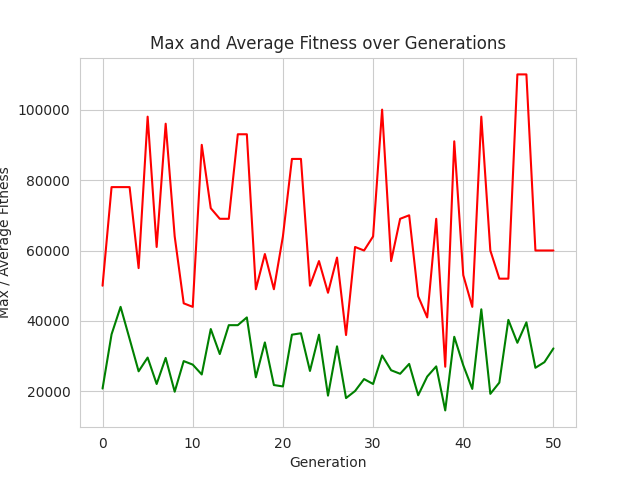
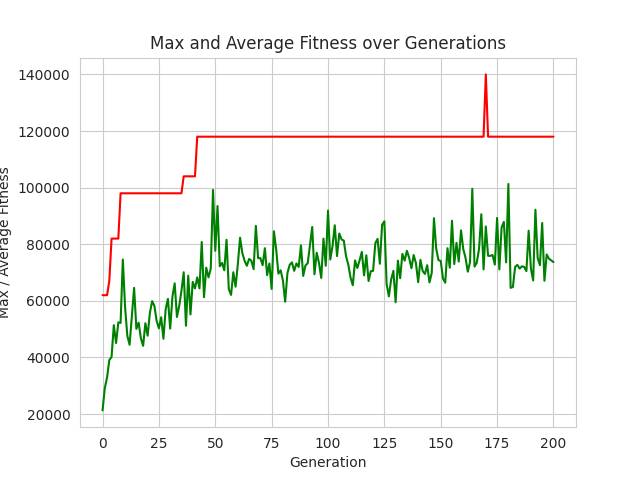
LuxAi-21, change alghotitms for evol, typo

diff --git a/evol/evol.py b/evol/evol.py
@@ -12,7 +12,6 @@ import statistics
 import time
 import json
 
-
 logger.remove()
 logger.add(open(
     'errorlogs/run_train.log', 'w'),
@@ -20,10 +19,9 @@ logger.add(open(
     format='{time:HH:mm:ss} | {level} | {message}'
     )
 
-
 # Constants
-# problem constants:
-gen_const = GenConstruct()
+# game constants:
+gen_const = GenConstruct() # get genom construction object
 GENOME_LINE_LENGHT = gen_const.prob_len  # length of genome line
 GENOME_LENGHT = 360*GENOME_LINE_LENGHT  # lenght of genome
 
@@ -38,18 +36,17 @@ CONFIGURATIONS = {
     'loglevel': 0,
     'annotations': False
     }
-NUM_EPISODES = 10  # number of games for mean reaward  calculating
+NUM_EPISODES = 10  # number of games for mean reaward calculating
 
-# sise of tournament
-TOURNAMENT_SIZE = 5
+# sise of tournament. For much robust tournament - choose small value
+TOURNAMENT_SIZE = 2
 
 # Genetic Algorithm constants:
 POPULATION_SIZE = 10
 P_CROSSOVER = 0.9  # probability for crossover
 P_MUTATION = 0.1  # probability for mutating an individual
-MAX_GENERATIONS = 50  # number of steps for evolution
+MAX_GENERATIONS = 200  # number of steps for evolution
 HALL_OF_FAME_SIZE = 5
-
 
 # Space initialisation
 toolbox = base.Toolbox()
@@ -82,7 +79,15 @@ toolbox.register(
 
 # Fitness calculation
 def GameScoreFitness(individual: List[int]) -> Tuple[float]:
+    """Return game statistics for evaluation criterium
 
+    Args:
+        individual (List[int]): individual genome list
+
+    Returns:
+        Tuple[float]: tuple, that contains only one value of mean rewards for firts player
+    """
+    # list genome to 
     agent_train.genome = gen_const.convert_genome(vector=individual)
     rewards = evaluate(
         'lux_ai_2021',
@@ -91,22 +96,22 @@ def GameScoreFitness(individual: List[int]) -> Tuple[float]:
         num_episodes=NUM_EPISODES,
         debug=False
         )
-    # get first player rewards
+    # get mean rewards for first player
     rewards = [l[0] for l in rewards]
     mean_r = statistics.mean(rewards)
 
     return mean_r,
 
 
+# register evaluate function
 toolbox.register("evaluate", GameScoreFitness)
-
 
 # Genetic operators
 # Tournament selection with tournament size
 toolbox.register("select", tools.selTournament, tournsize=TOURNAMENT_SIZE)
 
 # Single-point crossover:
-toolbox.register("mate", tools.cxOnePoint)
+toolbox.register("mate", tools.cxUniform, indpb=10.0/GENOME_LENGHT)
 
 # Flip-bit mutation:
 # indpb: Independent probability for each attribute to be flipped
@@ -117,6 +122,75 @@ toolbox.register(
     up=10,
     indpb=1.0/GENOME_LENGHT
     )
+
+
+# define Genetic Algorithm flow with elitism
+def eaSimpleWithElitism(
+    population, 
+    toolbox, 
+    cxpb, 
+    mutpb, 
+    ngen, 
+    stats=None,
+    halloffame=None, 
+    verbose=__debug__
+    ):
+    """This algorithm is similar to DEAP eaSimple() algorithm, with the modification that
+    halloffame is used to implement an elitism mechanism. The individuals contained in the
+    halloffame are directly injected into the next generation and are not subject to the
+    genetic operators of selection, crossover and mutation.
+    """
+    logbook = tools.Logbook()
+    logbook.header = ['gen', 'nevals'] + (stats.fields if stats else [])
+
+    # Evaluate the individuals with an invalid fitness
+    invalid_ind = [ind for ind in population if not ind.fitness.valid]
+    fitnesses = toolbox.map(toolbox.evaluate, invalid_ind)
+    for ind, fit in zip(invalid_ind, fitnesses):
+        ind.fitness.values = fit
+
+    if halloffame is None:
+        raise ValueError("halloffame parameter must not be empty!")
+
+    halloffame.update(population)
+    hof_size = len(halloffame.items) if halloffame.items else 0
+
+    record = stats.compile(population) if stats else {}
+    logbook.record(gen=0, nevals=len(invalid_ind), **record)
+    if verbose:
+        print(logbook.stream)
+
+    # Begin the generational process
+    for gen in range(1, ngen + 1):
+
+        # Select the next generation individuals
+        offspring = toolbox.select(population, len(population) - hof_size)
+
+        # Vary the pool of individuals
+        offspring = algorithms.varAnd(offspring, toolbox, cxpb, mutpb)
+
+        # Evaluate the individuals with an invalid fitness
+        invalid_ind = [ind for ind in offspring if not ind.fitness.valid]
+        fitnesses = toolbox.map(toolbox.evaluate, invalid_ind)
+        for ind, fit in zip(invalid_ind, fitnesses):
+            ind.fitness.values = fit
+
+        # add the best back to population:
+        offspring.extend(halloffame.items)
+
+        # Update the hall of fame with the generated individuals
+        halloffame.update(offspring)
+
+        # Replace the current population by the offspring
+        population[:] = offspring
+
+        # Append the current generation statistics to the logbook
+        record = stats.compile(population) if stats else {}
+        logbook.record(gen=gen, nevals=len(invalid_ind), **record)
+        if verbose:
+            print(logbook.stream)
+
+    return population, logbook
 
 
 # Genetic Algorithm flow:
@@ -136,7 +210,7 @@ def main():
     hof = tools.HallOfFame(HALL_OF_FAME_SIZE)
 
     # perform the Genetic Algorithm flow with hof feature added:
-    population, logbook = algorithms.eaSimple(
+    population, logbook = eaSimpleWithElitism(
         population,
         toolbox,
         cxpb=P_CROSSOVER,

diff --git a/evol/bots/utility.py b/evol/bots/utility.py
@@ -45,6 +45,11 @@ class GenConstruct:
         self.prob_len = len(self.Probability._fields)
 
     def rnd(self) -> int:
+        """Get random int value in range [0, 10]
+
+        Returns:
+            int: random int in range [0, 10]
+        """
         return random.randint(0, 10)
 
     def init_genome(self) -> List[namedtuple]:
@@ -59,10 +64,23 @@ class GenConstruct:
         return genome
 
     def get_genome_vector(self) -> List[int]:
+        """Create random genome vector
+
+        Returns:
+            List[int]: list of random int with range [0, 10]
+        """
         vector = [self.rnd() for _ in range(360*self.prob_len)]
         return vector
 
     def convert_genome(self, vector: List[int]) -> List[namedtuple]:
+        """Convert genome list to lost of named tuples
+
+        Args:
+            vector (List[int]): genom
+
+        Returns:
+            List[namedtuple]: list of named tuples representation
+        """
         genome = []
         for i in range(360):
             line_v = vector[i*self.prob_len: i*self.prob_len+self.prob_len]

diff --git a/README.md b/README.md
@@ -15,7 +15,7 @@ sudo lux-ai-2021 main.py main.py --python=python3 --out=replays/replay.json
 make game with python `python runner.py` or set full game options. You can use `agent_test.py` for test options
 
 ```bash
-DEBUG=True PLAYER=agent.py OPPONENT=simple_agent python runner.py
+DEBUG=True PLAYER=agent_test.py OPPONENT=agent_random.py python runner.py
 ```
 
 You can start game from `runner.ipynb`
@@ -37,6 +37,14 @@ make submit to kaggle (need `kaggle` library - use `requirements.txt` for instal
 ```bash
 kaggle competitions submit -c lux-ai-2021 -f submissions/submission.tar.gz -m "submission"
 ```
+
+To learn bot use `evol.py` file by command like:
+
+```bash
+python evol.py
+```
+
+Be carefull - you need define correct parameters inside.
 
 ## How it work
 

diff --git a/genetics.md b/genetics.md
@@ -1,0 +1,15 @@
+# Genetic Algorithms explanation
+
+## Crossovers
+
+uniform-crossover
+
+![uniform-crossover.png](images/Example-of-uniform-crossover.png)
+
+MOX-Crossover
+
+![MOX-Crossover](images/MOX-Crossover-by-Anderson-and-Ashlock-1-used-as-a-basis-for-the-new-MIS-crossover.png)
+
+Partial-Mapped-Crossover-PMX
+
+![Partial-Mapped-Crossover-PMX](images/Partial-Mapped-Crossover-PMX-operation.png)
